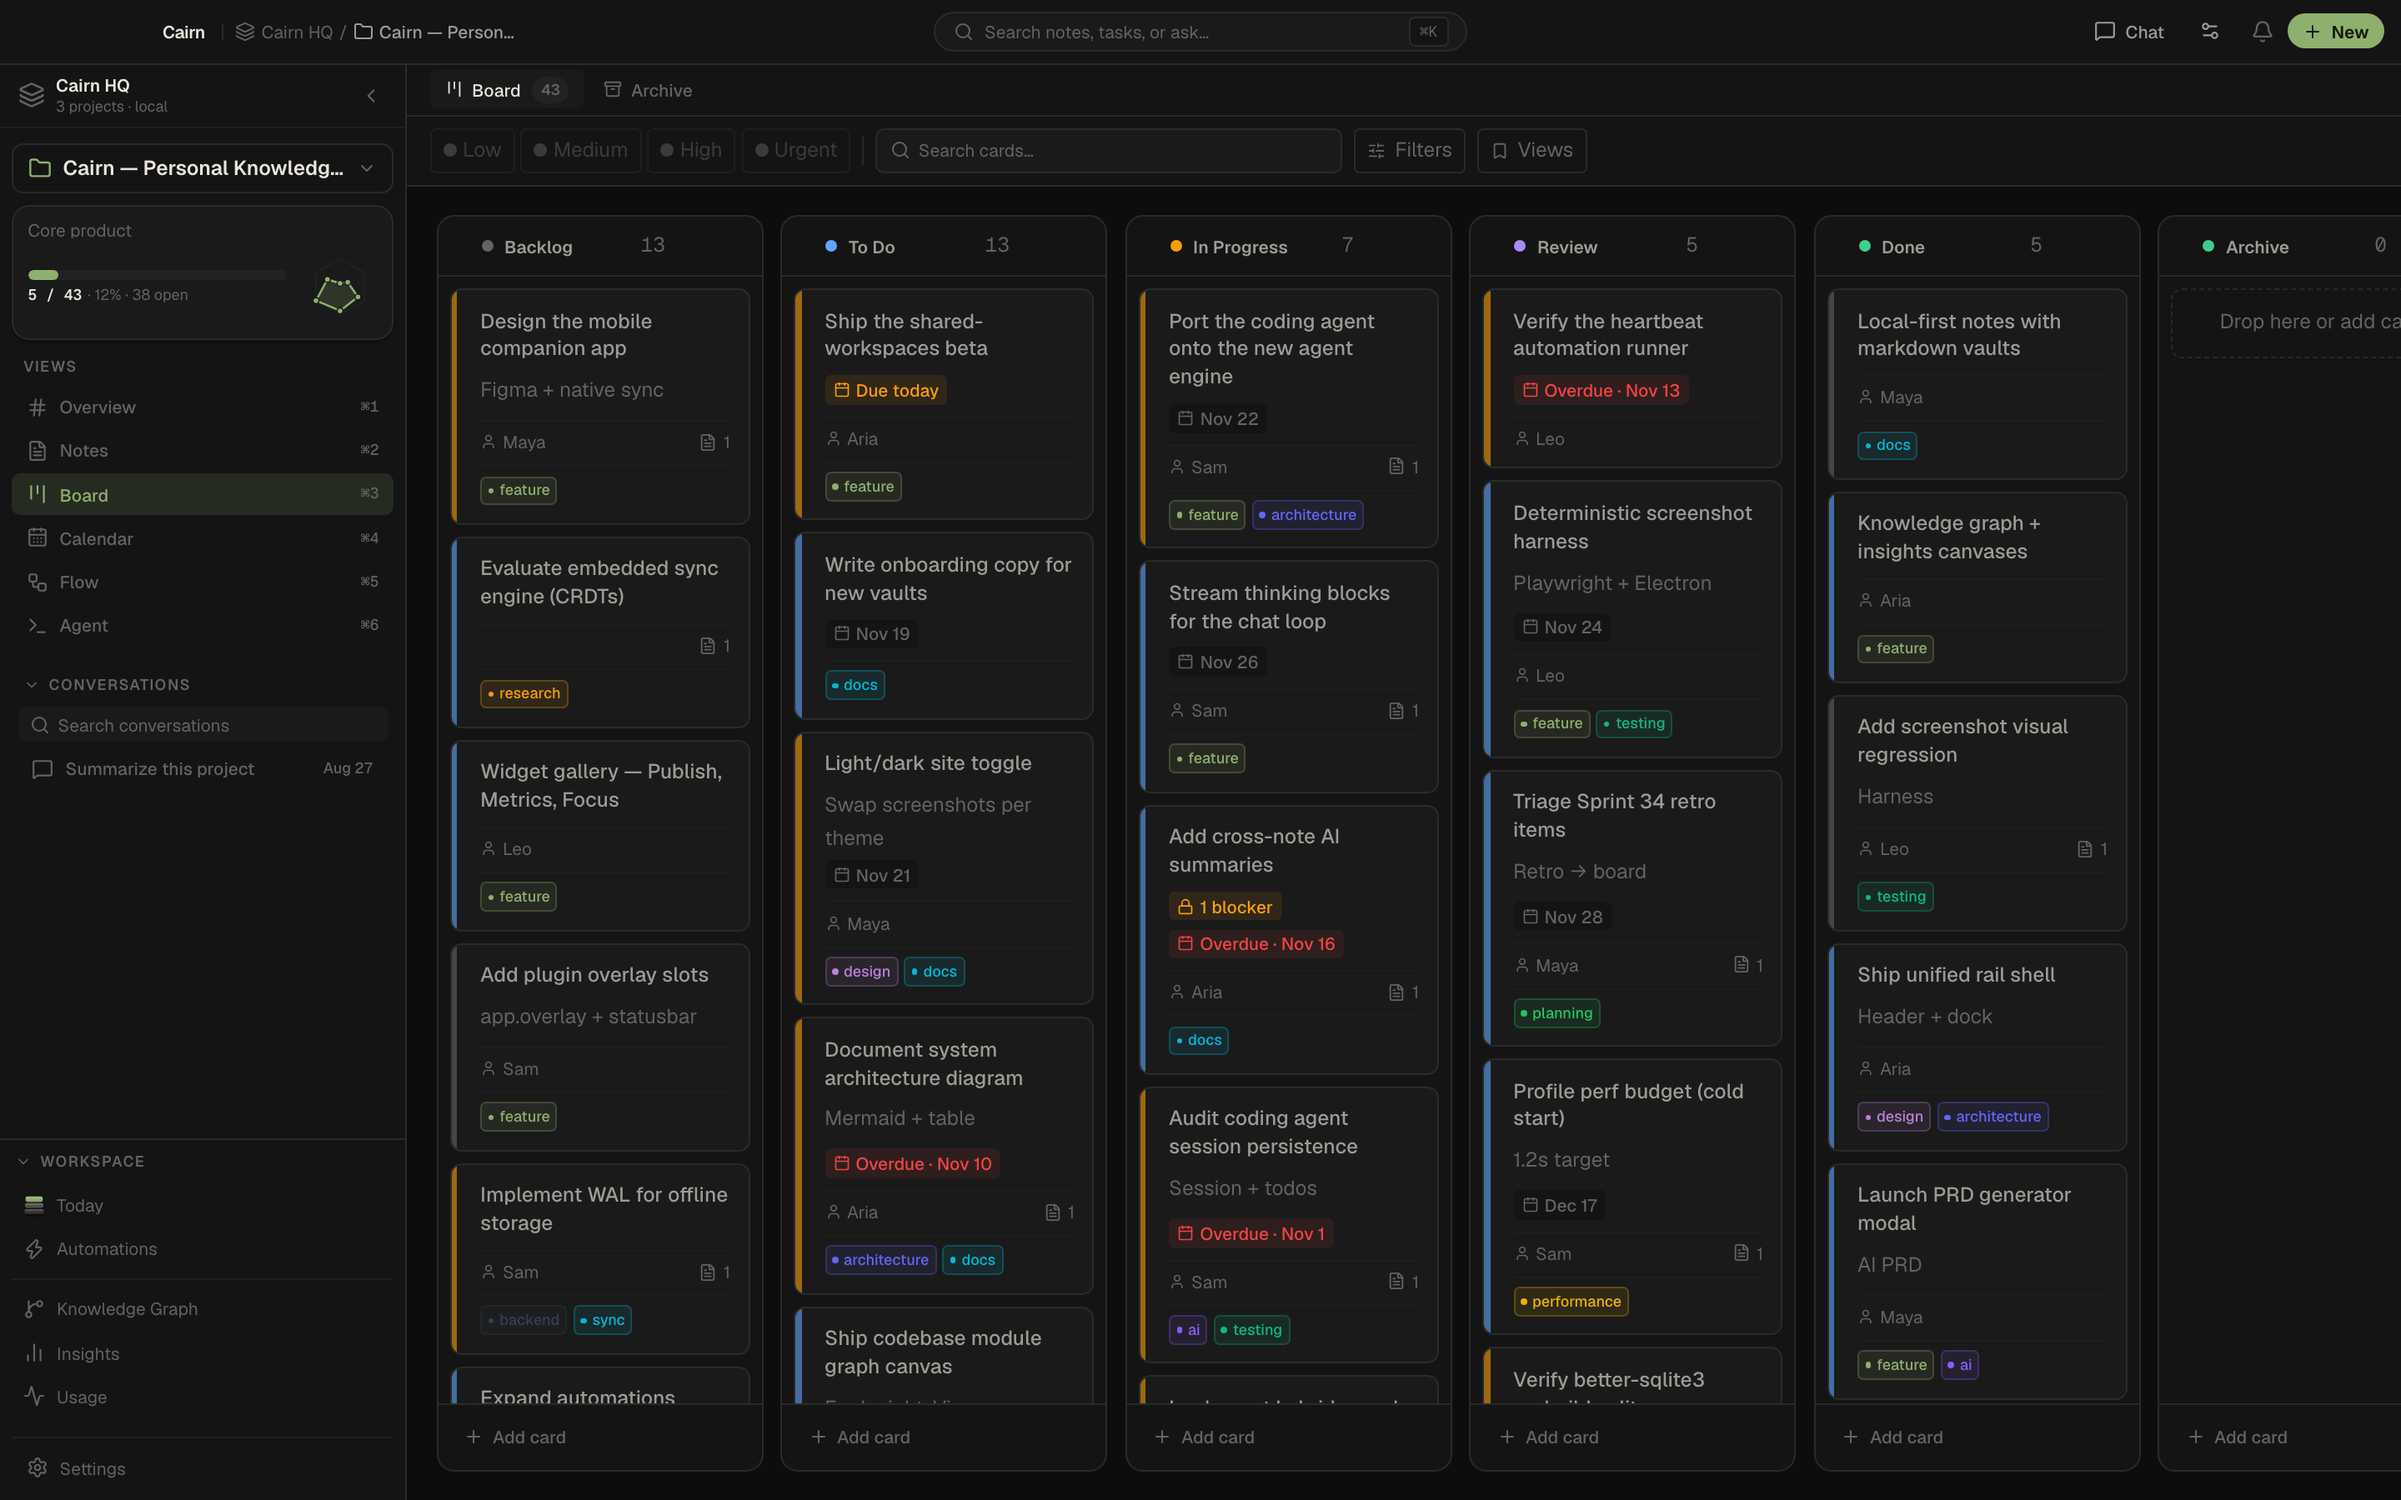
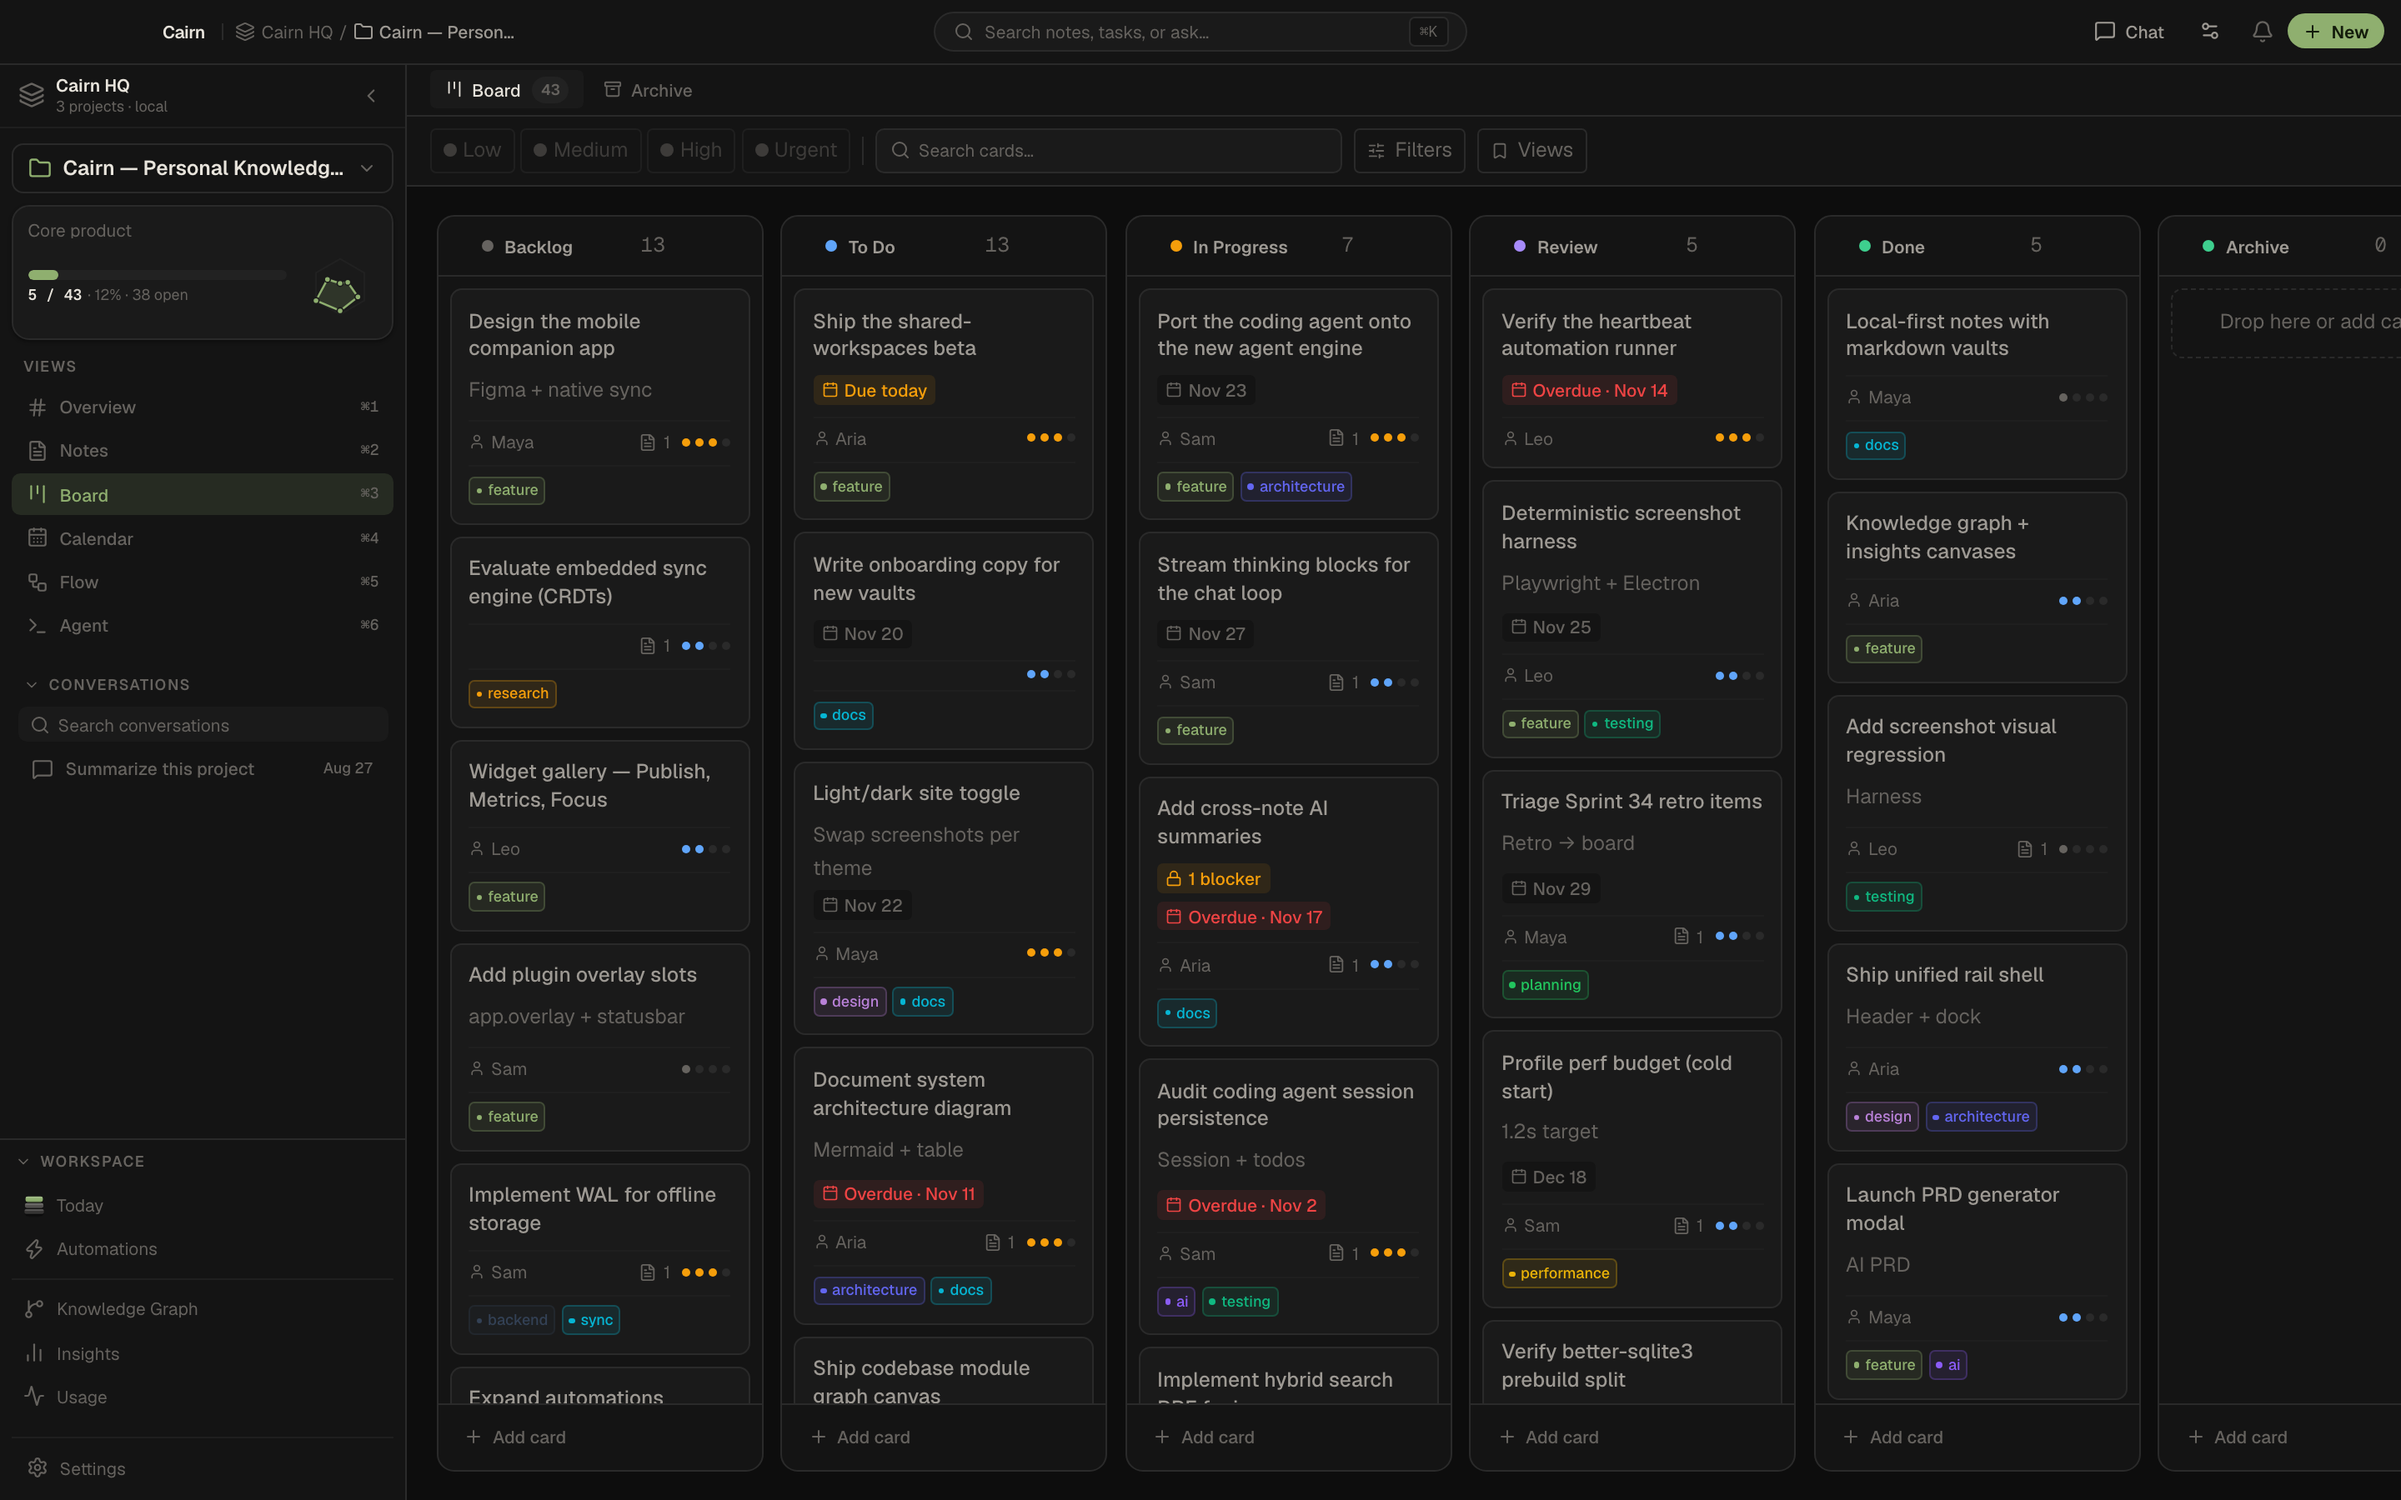
docs: people tool covers teams and merging, MCP server instructions, regenerated screenshots

diff --git a/docs/mcp.html b/docs/mcp.html
@@ -231,6 +231,9 @@ squashfs-root/resources/app.asar.unpacked/dist-mcp/cairn-mcp-linux-x64</pre>
 }</pre>
       </div>
 
+      <h2>Instructions for agents</h2>
+      <p>When a client connects, the Cairn server sends a short set of instructions on how to work with it: start with <code>get_context</code>, find or create the card for the work and claim it with <code>task_progress</code>, log progress and move it to review or done when finished, file anything else worth fixing with <code>create_task</code>, and keep findings and a session summary in notes with <code>ensure_note</code>. Clients that support MCP server instructions, such as Claude Code, add them to the agent's system prompt, so you don't have to repeat this workflow in each repository's <code>AGENTS.md</code> or <code>CLAUDE.md</code>.</p>
+
       <h2>How writes appear instantly</h2>
       <p>The Cairn app polls the SQLite database using WAL (Write-Ahead Logging) change detection. When the MCP server writes a note or task, the change is committed to the database and the app detects it within milliseconds — no restart required, no manual refresh. The UI updates in place.</p>
 
@@ -358,7 +361,7 @@ squashfs-root/resources/app.asar.unpacked/dist-mcp/cairn-mcp-linux-x64</pre>
           <tr><th>Tool</th><th>Read / Write</th><th>Description</th></tr>
         </thead>
         <tbody>
-          <tr><td><code>people</code></td><td>Write</td><td>The people the user works with, their meetings and relationships. Only available when the People feature is on. Reads: <code>query</code> (by name, relationship or status; empty lists everyone), <code>get</code> (one person: details, relationships, persona note id), <code>timeline</code> (their meetings, mentions and owned tasks, newest first), <code>relationships</code> (who manages, mentors or partners whom) and <code>inventory</code> (a read-only scan of the person and meeting notes already in the workspace, for migrating them; the user applies it). Writes: <code>upsert</code> (create or update a person) and <code>link</code> (an edge between two people, an attendee on a meeting note, or a mention). Anything inferred rather than read stated is added as <code>suggested</code> for the user to confirm. A person marked private keeps their persona note out of every read.</td></tr>
+          <tr><td><code>people</code></td><td>Write</td><td>The people the user works with, their meetings, relationships and teams. Reads: <code>query</code> (by name, relationship or status; empty lists everyone), <code>get</code> (one person: details, relationships, teams, persona note id), <code>timeline</code> (their meetings, mentions and owned tasks, newest first), <code>relationships</code> (who manages, mentors or partners whom, including former relationships), <code>teams</code> (every team with its kind, lead, parent team and members with their roles; one team also lists past members) and <code>inventory</code> (a read-only scan of the person and meeting notes already in the workspace, for migrating them; the user applies it). Writes: <code>upsert</code> (create or update a person), <code>link</code> (a relationship between two people such as <code>manager_of</code>, optionally ended with <code>endedAt</code>; an attendee on a meeting note; or a mention), <code>archive</code> (someone who left), <code>merge</code> (fold a duplicate person into another), <code>team_upsert</code> (create or update a team, add or remove members, merge two teams) and <code>team_delete</code>. Anything inferred rather than read stated is added as <code>suggested</code> for the user to confirm, and only fills gaps. A person marked private keeps their persona note out of every read.</td></tr>
         </tbody>
       </table>
 <!-- TABLE:END -->

diff --git a/docs/ai-chat.html b/docs/ai-chat.html
@@ -309,7 +309,7 @@
           <tr><td><code>get_idea_flow</code> / <code>edit_idea_flow</code></td><td>Read the Idea Flow canvas, and apply a batch of node and edge changes (with optional auto-layout) in one call</td></tr>
           <tr><td><code>get_graph</code></td><td>The knowledge graph: a node's N-hop neighbourhood, similar notes by meaning, or the whole workspace graph scoped by project</td></tr>
           <tr><td><code>get_today</code></td><td>Read the workspace's Today brief — what's happening today, decisions, drafts and meetings — including earlier days and items marked done on request</td></tr>
-          <tr><td><code>people</code></td><td>Look up the people you work with and their meetings and relationships, and record people, attendees and links; inferred facts wait for your confirmation</td></tr>
+          <tr><td><code>people</code></td><td>Look up the people you work with, their meetings, relationships and teams; record people, attendees, relationships and teams, and merge duplicates. Inferred facts wait for your confirmation</td></tr>
           <tr><td><code>search_sessions</code> / <code>read_session</code></td><td>Search your earlier chats and coding sessions in this workspace — by meaning when embeddings are on, otherwise by words — and read the matching messages (read-only, never asks for approval)</td></tr>
           <tr><td><code>get_user_writing_style</code> / <code>update_user_writing_style</code></td><td>Read your writing style when drafting in your voice, and record a style preference you ask it to remember</td></tr>
           <tr><td><code>spawn_tasks_from_note</code> *</td><td>Read a PRD note and create structured task cards on the board</td></tr>

diff --git a/SITE-SYNC.md b/SITE-SYNC.md
@@ -107,6 +107,7 @@ to re-read the whole changelog history — only the delta since the last sync.
 | 2026-11-17 | v3.2.0 | Central helpers: `sync-site.mjs` + `_nav.json` + `_tools.json` (sidebars, tool tables/counts generated; `--check` gate), `AGENTS.md`. Caught drift: Board link missing from notes-editor sidebar, restored. |
 | 2026-11-17 | v3.2.0 | Today pass: new `docs/today.html`, Today links in all sidebars, homepage row, `get_today` in MCP/chat/agent docs, MCP count 19→20, onboarding + shortcuts refresh, regenerated screenshots (incl. `today.png`, fixed blank `usage.png`). |
 | 2026-11-19 | v3.2.4 | People pass: new `docs/people.html`, `people` tool in MCP/chat/agent tables, homepage row, sidebars, four People screenshots (light + dark). Held on `feat/people-docs` until launch. |
+| 2026-11-20 | v3.3.0 (partial) | Tool list only: `people` row covers teams, `archive`, `merge`, `team_upsert`/`team_delete` and ended relationships (no longer "only when the People feature is on"); `_tools.json` version v3.3.0. New "Instructions for agents" section on `docs/mcp.html` (the server now sends its workflow at connect). Screenshots regenerated with the teams fixture. Tool set unchanged vs the app exporter. The rest of v3.3.0 (new People pictures, mobile sync removal) still to fold in, so "Last synced" stays v3.2.4. |
 |---|---|---|
 | 2026-11-17 | v3.2.0 | Today pass: new `docs/today.html`, Today links in all sidebars, homepage row, `get_today` in MCP/chat/agent docs, MCP count 19→20, onboarding + shortcuts refresh, regenerated screenshots (incl. `today.png`, fixed blank `usage.png`). |
 |---|---|---|
